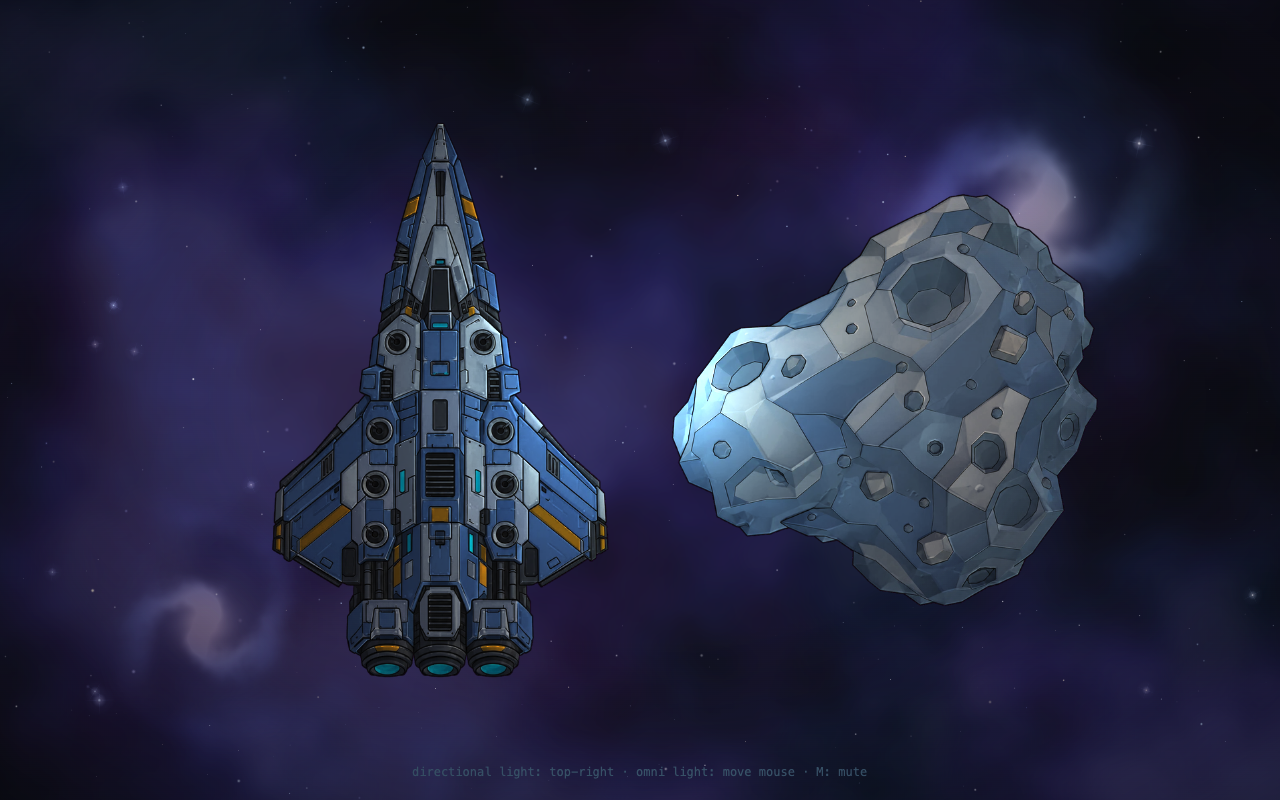
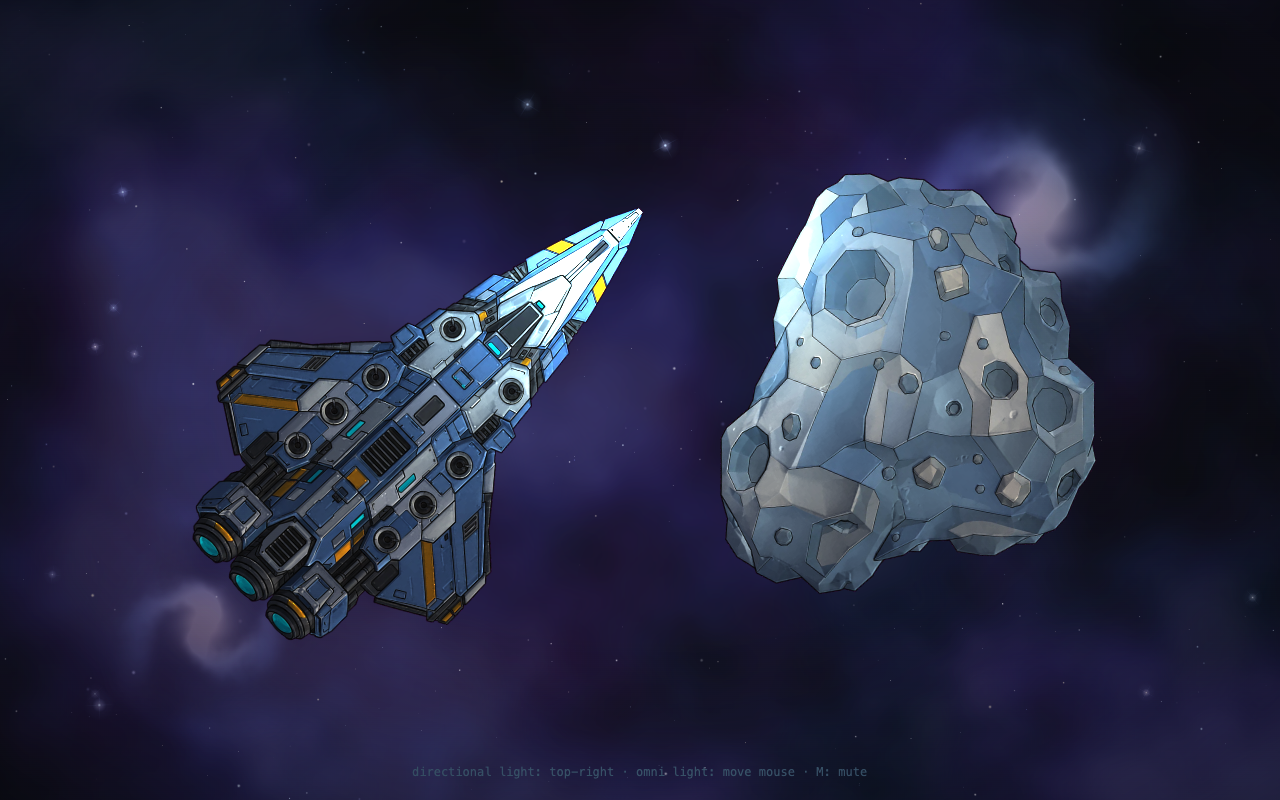
feat: spin the ship and asteroid with rotation-compensated lighting

Changed region(s): [[0.125, 0.1562, 0.5, 0.8438], [0.5, 0.2188, 0.875, 0.7812]]

diff --git a/src/app/lighting-scene.ts b/src/app/lighting-scene.ts
@@ -1,5 +1,5 @@
 import type { Application, Ticker } from 'pixi.js';
-import { Assets, Container, Text, extensions } from 'pixi.js';
+import { Assets, Container, Text, UPDATE_PRIORITY, extensions } from 'pixi.js';
 import type { Texture } from 'pixi.js';
 import {
   AmbientLight,
@@ -69,24 +69,24 @@ export async function createScene(app: Application): Promise<Scene> {
   light2DSystem.addAmbientLight(ambient);
 
   // A distant, very wide point light approximates a directional key light.
-  const keyLight = new PointLight({
-    color: 0xfff2d8,
-    intensity: 1.7,
-    radius: 5000,
-  });
+  // One light per object lets us counter-rotate its direction so shading stays
+  // correct while the sprites themselves rotate (the library samples normals
+  // in texture space and does not rotate them with the sprite).
+  const makeKeyLight = (): PointLight =>
+    new PointLight({ color: 0xfff2d8, intensity: 1.7, radius: 5000 });
+  const makePointerLight = (): PointLight =>
+    new PointLight({ color: 0x9fe0ff, intensity: 1.8, radius: 500 });
 
-  const pointerLight = new PointLight({
-    color: 0x9fe0ff,
-    intensity: 1.8,
-    radius: 500,
-  });
-
-  app.stage.addChild(keyLight, pointerLight);
-  light2DSystem.addLight(keyLight);
-  light2DSystem.addLight(pointerLight);
+  const keyLights = [makeKeyLight(), makeKeyLight()];
+  const pointerLights = [makePointerLight(), makePointerLight()];
+  for (const light of [...keyLights, ...pointerLights]) {
+    app.stage.addChild(light);
+    light2DSystem.addLight(light);
+  }
 
   const canvas = app.canvas as HTMLCanvasElement;
-  let pointerLightPlaced = false;
+  const pointerSource = { x: app.screen.width * 0.5, y: app.screen.height * 0.45 };
+  let pointerPlaced = false;
 
   const layout = (): void => {
     const { width, height } = app.screen;
@@ -111,23 +111,48 @@ export async function createScene(app: Application): Promise<Scene> {
     ship.position.set(centerX - gap / 2 - shipWidth / 2, centerY);
     asteroid.position.set(centerX + gap / 2 + asteroidWidth / 2, centerY);
 
-    keyLight.position.set(width * 0.95, -height * 0.05);
-    keyLight.radius = Math.max(width, height) * 6;
-    pointerLight.radius = Math.min(width, height) * 0.55;
+    for (const light of keyLights) light.radius = Math.max(width, height) * 6;
+    for (const light of pointerLights) light.radius = Math.min(width, height) * 0.55;
 
-    if (!pointerLightPlaced) {
-      pointerLight.position.set(width * 0.5, height * 0.45);
+    if (!pointerPlaced) {
+      pointerSource.x = width * 0.5;
+      pointerSource.y = height * 0.45;
     }
 
     hint.position.set(width / 2, height - 28);
   };
 
+  const placeRotatedLight = (
+    light: PointLight,
+    target: { x: number; y: number; rotation: number },
+    source: { x: number; y: number },
+  ): void => {
+    const dx = source.x - target.x;
+    const dy = source.y - target.y;
+    const angle = -target.rotation;
+    const cos = Math.cos(angle);
+    const sin = Math.sin(angle);
+    light.position.set(target.x + dx * cos - dy * sin, target.y + dx * sin + dy * cos);
+  };
+
+  const updateLights = (): void => {
+    const { width, height } = app.screen;
+    const keySource = { x: width * 0.95, y: -height * 0.05 };
+    const targets = [ship, asteroid] as const;
+
+    targets.forEach((target, index) => {
+      placeRotatedLight(keyLights[index]!, target, keySource);
+      placeRotatedLight(pointerLights[index]!, target, pointerSource);
+    });
+  };
+
   const onPointerMove = (event: PointerEvent): void => {
     const bounds = canvas.getBoundingClientRect();
-    const x = ((event.clientX - bounds.left) / Math.max(bounds.width, 1)) * app.screen.width;
-    const y = ((event.clientY - bounds.top) / Math.max(bounds.height, 1)) * app.screen.height;
-    pointerLight.position.set(x, y);
-    pointerLightPlaced = true;
+    pointerSource.x =
+      ((event.clientX - bounds.left) / Math.max(bounds.width, 1)) * app.screen.width;
+    pointerSource.y =
+      ((event.clientY - bounds.top) / Math.max(bounds.height, 1)) * app.screen.height;
+    pointerPlaced = true;
   };
 
   const updateShadowMap = (): void => {
@@ -138,8 +163,15 @@ export async function createScene(app: Application): Promise<Scene> {
   };
 
   const tick = (ticker: Ticker): void => {
+    const deltaSeconds = Math.min(ticker.deltaMS / 1000, 0.05);
     void ticker;
+
+    // Slow counter-rotation so the corner key light can be judged across faces.
+    ship.rotation += deltaSeconds * 0.28;
+    asteroid.rotation -= deltaSeconds * 0.22;
+
     layout();
+    updateLights();
     // With no casters the shadow map is a constant "unoccluded" map, so bake it
     // once. Once casters exist it must be refreshed each frame.
     if (shadowSystem.casters.length > 0) updateShadowMap();
@@ -151,8 +183,11 @@ export async function createScene(app: Application): Promise<Scene> {
 
   window.addEventListener('resize', onResize);
   canvas.addEventListener('pointermove', onPointerMove);
-  app.ticker.add(tick);
+  // HIGH priority so the light positions are current before Light2DSystem
+  // uploads its uniforms for the frame.
+  app.ticker.add(tick, undefined, UPDATE_PRIORITY.HIGH);
   layout();
+  updateLights();
   updateShadowMap();
 
   return {
@@ -166,16 +201,16 @@ export async function createScene(app: Application): Promise<Scene> {
       window.removeEventListener('resize', onResize);
       canvas.removeEventListener('pointermove', onPointerMove);
 
-      light2DSystem.lights = light2DSystem.lights.filter(
-        (light) => light !== keyLight && light !== pointerLight,
-      );
+      const sceneLights = [...keyLights, ...pointerLights];
+      light2DSystem.lights = light2DSystem.lights.filter((light) => !sceneLights.includes(light));
       light2DSystem.ambientLights = light2DSystem.ambientLights.filter(
         (light) => light !== ambient,
       );
 
-      app.stage.removeChild(keyLight, pointerLight);
-      keyLight.destroy();
-      pointerLight.destroy();
+      for (const light of sceneLights) {
+        app.stage.removeChild(light);
+        light.destroy();
+      }
       ambient.destroy();
 
       content.destroy({ children: true });

diff --git a/README.md b/README.md
@@ -90,6 +90,9 @@ with `LightSprite` + normal maps:
 - **Omni light** — a point light follows the pointer.
 - **Ambient fill** for readability.
 - The shadow map is baked once while there are no shadow casters.
+- The ship and asteroid slowly counter-rotate so you can watch the corner key light move across
+  their normal-mapped faces. Because the library does not rotate the normal basis itself, each
+  object gets a light whose direction is counter-rotated into its local frame.
 - The art already has baked cel shading, so the normal maps are baked at **0.30 strength**; at
   full strength the diffuse lighting reads as embossed metal.
 
